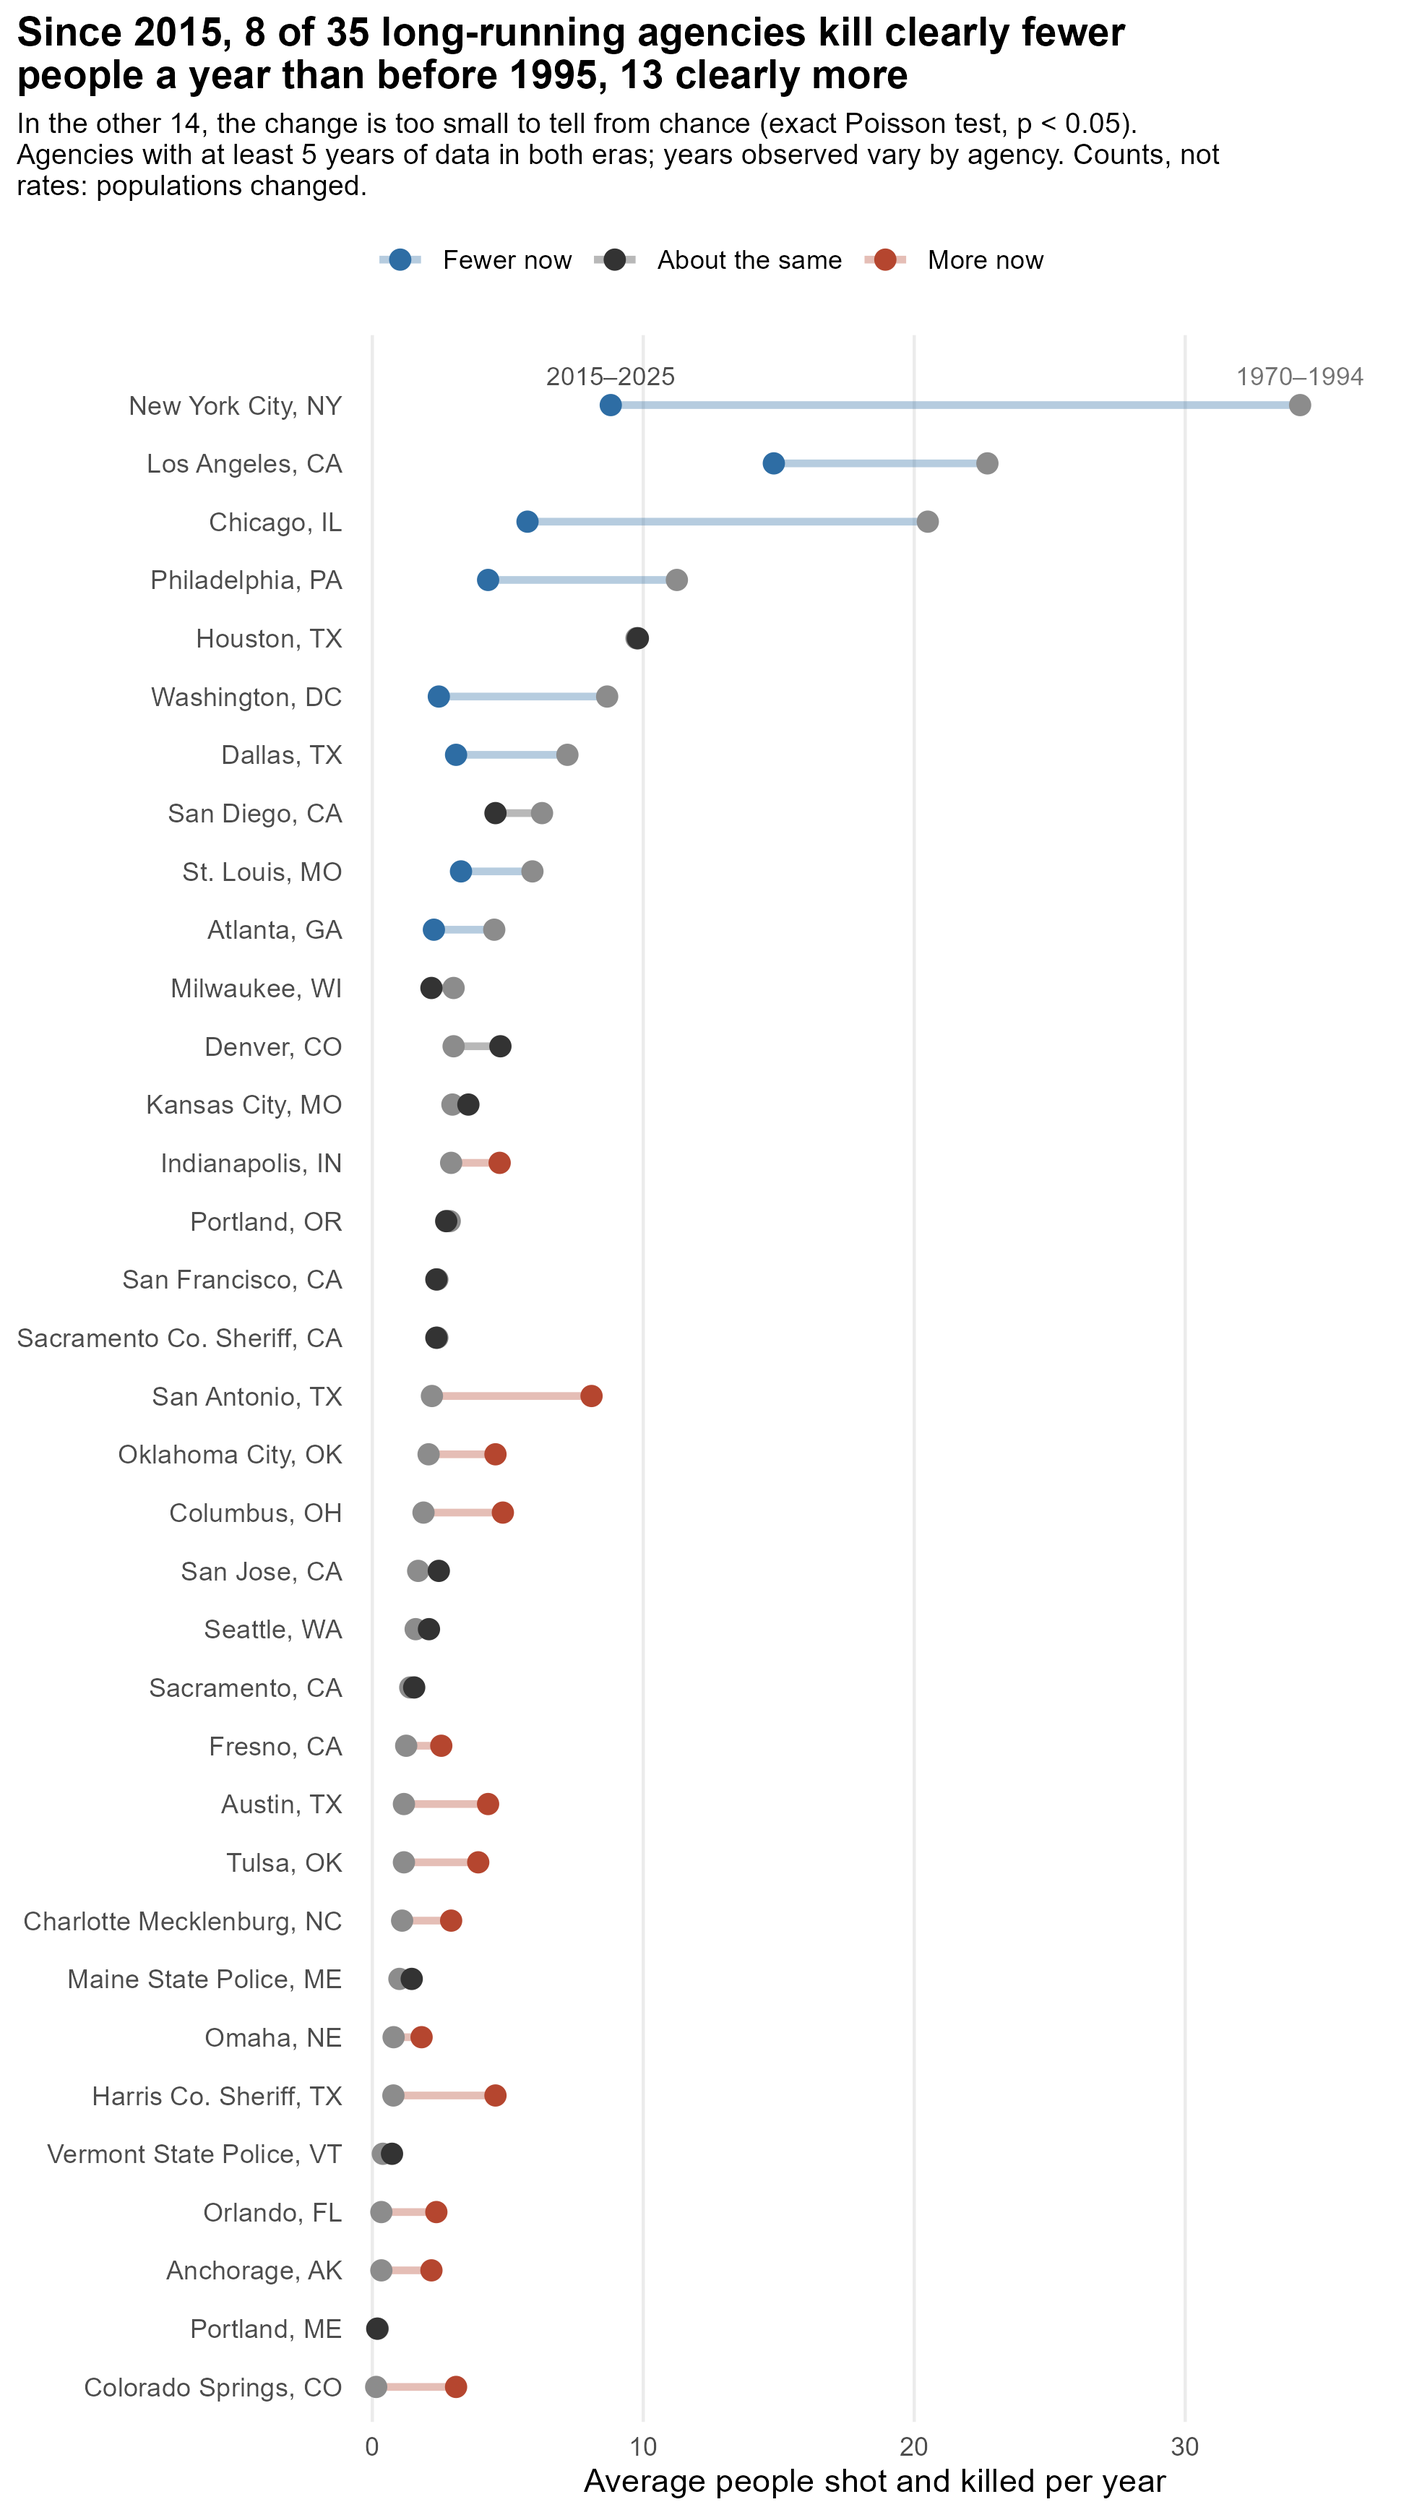
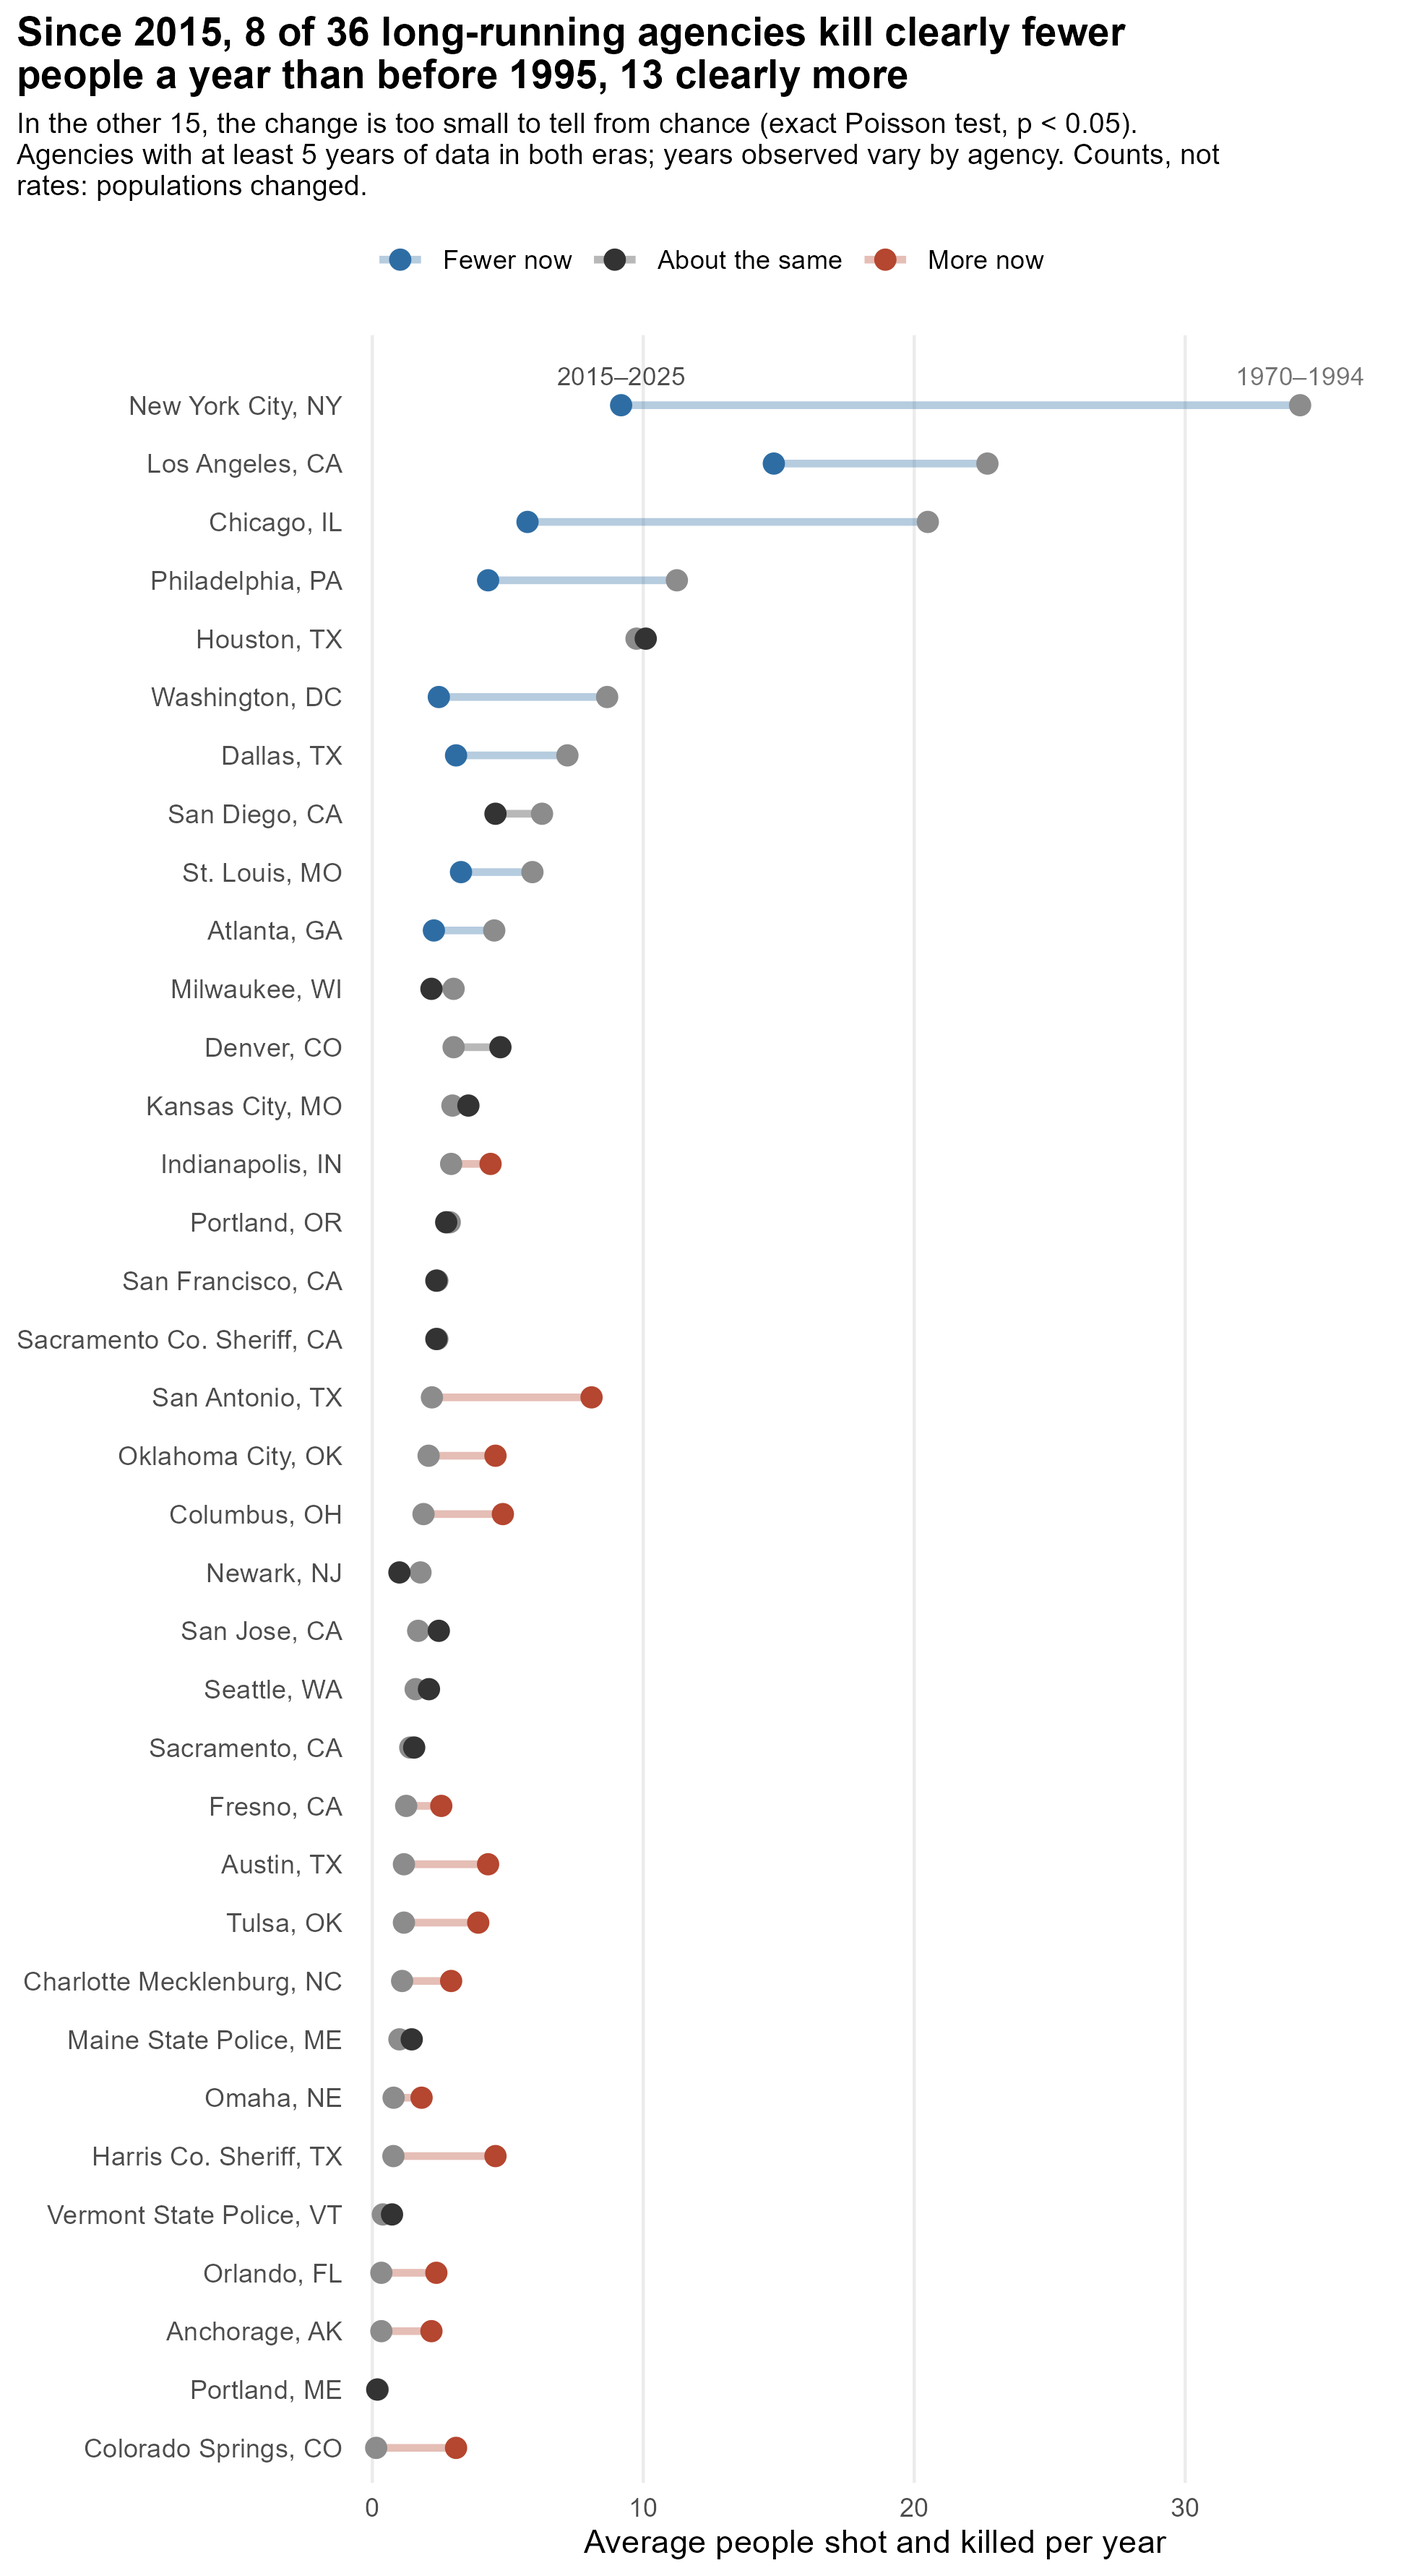
Fill 2015-24 with WaPo where there is no hand-built count; drop Cincinnati hand-built 2015+ (#38)
* Fill 2015-24 with WaPo where there is no hand-built count; drop Cincinnati hand-built 2015+

Most hand-built counts for 2015-22 were taken from WaPo in the first
place, so the trend figures now use WaPo for 2015-24 wherever an agency
has no usable hand-built count (missing, partial, or excluded), and MPV
on-duty for 2025 when a series reaches 2024. Cincinnati's hand-built
2015-19 counts mix in nonfatal shootings (2015: 27 vs WaPo 2), so its
exclusion now runs through 2022 and WaPo stands in from 2015.

Newark joins the long panel. Headline: 36 agencies, 0.72 (0.50-1.03);
8 fewer, 13 more, 15 about the same. README says where the 2015+
hand-built counts come from and that the WaPo agreement row is not an
independent check.

* Compare WaPo only against hand-built counts not taken from WaPo

Adds data/crosswalks/nix_nonwapo_sources.csv (Georgia AJC 2015-20,
Minnesota Star Tribune, Hawaii Civil Beat, and NYPD/SFPD/Houston/
Dallas/Springfield MO department data) and a "Hand-built (non-WaPo
sources) vs WaPo" agreement row: 247 agencies, 1,688 agency-years,
WaPo 4.2% fewer, 74% exact in years with a death. The README table
and the trend-figure caption now use this independent row.

Claude-Session: https://claude.ai/code/session_01HYdS39HijhNh5V2fQRzqZG

---------

diff --git a/README.md b/README.md
@@ -21,25 +21,25 @@ Are police killing more people now than in decades past? National data can't ans
 
 ![Within-agency trend in fatal police shootings](output/figures/trend_index.png)
 
-**How the trend is estimated.** The solid line comes from a Poisson model with agency fixed effects, fit to 413 of the 414 hand-built agencies. It compares each agency with itself, so agencies entering or leaving the data don't move the line. The hand-built series end in 2022. For agencies whose series run into 2021–22, 2023–24 are filled with WaPo counts and 2025 with MPV on-duty counts. WaPo is used where it exists because it tracks the hand-built counts more closely in the years just before the switch. Two series are left out because they mix in nonfatal shootings: Las Vegas (all years) and Cincinnati before 2015.
+**How the trend is estimated.** The solid line comes from a Poisson model with agency fixed effects, fit to all 414 hand-built agencies. It compares each agency with itself, so agencies entering or leaving the data don't move the line. Most hand-built counts for 2015 onward were taken from WaPo in the first place (see [Background](#background)), so WaPo fills 2015–24 wherever an agency has no hand-built count; the hand-built series end in 2022. MPV on-duty counts fill 2025 for series that reach 2024. Two hand-built series are left out because they mix in nonfatal shootings, Las Vegas and Cincinnati; WaPo stands in for both from 2015.
 
 **How far back it reaches.** Before 2000, the solid line rests on only 4–34 departments, mostly large cities. It describes big cities, not the country.
 
-**What it shows.** The headline compares one fixed set of agencies: the 35 with at least five years of data both before 1995 and since 2015, shown as the dashed line. In those agencies, fatal police shootings since 2015 run 28% below their 1970–1994 level (ratio 0.72, 95% CI 0.50–1.04).
+**What it shows.** The headline compares one fixed set of agencies: the 36 with at least five years of data both before 1995 and since 2015, shown as the dashed line. In those agencies, fatal police shootings since 2015 run 28% below their 1970–1994 level (ratio 0.72, 95% CI 0.50–1.03).
 
-![Then vs. now in 35 long-running agencies](output/figures/then_vs_now.png)
+![Then vs. now in 36 long-running agencies](output/figures/then_vs_now.png)
 
-**Then vs. now.** In the same 35 agencies, 8 kill clearly fewer people a year now than before 1995, 13 kill clearly more, and in 14 the change is too small to tell from chance (exact Poisson test of the two eras' yearly rates, p < .05). The drops are largest in New York, Chicago, and Los Angeles; the biggest increases are in San Antonio, Harris County, and Austin. These are raw counts, not rates per resident: some of these cities grew, while others, like St. Louis and Philadelphia, shrank.
+**Then vs. now.** In the same 36 agencies, 8 kill clearly fewer people a year now than before 1995, 13 kill clearly more, and in 15 the change is too small to tell from chance (exact Poisson test of the two eras' yearly rates, p < .05). The drops are largest in New York, Chicago, and Los Angeles; the biggest increases are in San Antonio, Harris County, and Austin. These are raw counts, not rates per resident: some of these cities grew, while others, like St. Louis and Philadelphia, shrank.
 
-**What the newspaper years do to the headline.** Twenty-four of the 35 agencies include years taken from newspapers, and 19 of them qualify only because of those years.
-- Dropping every newspaper year leaves 16 agencies and a ratio of 0.50 (95% CI 0.34–0.73). The 11 agencies with no newspaper years give 0.49 (0.26–0.90).
-- The 22 agencies rebuilt case by case come out at 1.41 (0.93–2.12) on their own. Chicago and Los Angeles are set aside here, because their newspaper years are department counts the papers printed and their size swamps the pool. So the rebuilt cities, many of them fast-growing Sun Belt departments, mostly kill more people now than before 1995.
+**What the newspaper years do to the headline.** Twenty-five of the 36 agencies include years taken from newspapers, and 20 of them qualify only because of those years.
+- Dropping every newspaper year leaves 16 agencies and a ratio of 0.50 (95% CI 0.34–0.73). The 11 agencies with no newspaper years give 0.49 (0.27–0.90).
+- The 23 agencies rebuilt case by case come out at 1.38 (0.93–2.05) on their own. Chicago and Los Angeles are set aside here, because their newspaper years are department counts the papers printed and their size swamps the pool. So the rebuilt cities, many of them fast-growing Sun Belt departments, mostly kill more people now than before 1995.
 
-The reconstructions are floors, because a search can miss deaths but can't invent them. As an upper bound, raising each newspaper year to SHR's count wherever SHR is higher (an overcorrection, since SHR also counts off-duty killings) moves the headline only to 0.70 (0.49–1.00), and the 22 rebuilt cities to 1.29 (0.88–1.89). Every run is in [`era_ratio_sensitivity.csv`](output/tables/era_ratio_sensitivity.csv).
+The reconstructions are floors, because a search can miss deaths but can't invent them. As an upper bound, raising each newspaper year to SHR's count wherever SHR is higher (an overcorrection, since SHR also counts off-duty killings) moves the headline only to 0.70 (0.49–0.99), and the 23 rebuilt cities to 1.26 (0.87–1.82). Every run is in [`era_ratio_sensitivity.csv`](output/tables/era_ratio_sensitivity.csv).
 
 ![Agencies with data before 2000](output/figures/coverage_tiles.png)
 
-**Reach.** The 40 agencies above carry the long-run record back before 2000; orange tiles are years taken from local newspapers. Overall, the hand-built agencies were involved in at least 32% of everyone shot and killed by police in WaPo's data, 2015–2024 ("at least" because deaths are matched through each WaPo agency's primary ORI, so some matches are missed).
+**Reach.** The 44 agencies above carry the long-run record back before 2000; orange tiles are years taken from local newspapers. Overall, the hand-built agencies were involved in at least 32% of everyone shot and killed by police in WaPo's data, 2015–2024 ("at least" because deaths are matched through each WaPo agency's primary ORI, so some matches are missed).
 
 Numbers in this section come from [`trend_summary.csv`](output/tables/trend_summary.csv), [`trend_index.csv`](output/tables/trend_index.csv), [`then_vs_now.csv`](output/tables/then_vs_now.csv), [`era_ratio_sensitivity.csv`](output/tables/era_ratio_sensitivity.csv), and [`coverage_share.csv`](output/tables/coverage_share.csv), all written by [`scripts/07_figures_trends.R`](scripts/07_figures_trends.R).
 
@@ -49,12 +49,12 @@ Where they overlap, the sources mostly agree. Each row compares a national sourc
 
 | Compared with the hand-built counts | Years | Agency-years | Its total deaths | Same count, in years either recorded a death |
 |---|---|---:|---|---:|
-| *Washington Post* | 2015–2022 | 2,641 | 4.0% fewer | 87% |
+| *Washington Post*, against hand-built counts not taken from WaPo | 2015–2022 | 1,688 | 4.2% fewer | 74% |
 | Fatal Encounters | 2000–2021 | 5,595 | 1.3% fewer | 69% |
 | Mapping Police Violence (on-duty) | 2013–2022 | 3,357 | 2.2% fewer | 71% |
 | FBI SHR | 1976–2022 | 3,450 | 26.7% fewer | 33% |
 
-Most agency-years have no deaths in either source, which makes any two sources look alike. The last column drops those years, so it's the tougher test.
+Most agency-years have no deaths in either source, which makes any two sources look alike. The last column drops those years, so it's the tougher test. Most hand-built counts for 2015–22 were copied from WaPo, so the WaPo row uses only the agency-years whose counts came from another documented source: the Georgia, Minnesota, and Hawaii newspaper databases and the NYPD, San Francisco, Houston, Dallas, and Springfield (MO) department data ([`nix_nonwapo_sources.csv`](data/crosswalks/nix_nonwapo_sources.csv)). Against all hand-built counts, which are mostly WaPo's own, WaPo matches in 87% of years with a death.
 - **FE runs about 9% above WaPo** in the hand-built agencies, 2015–2021.
 - **MPV's gap drifts:** 8–10% below the hand-built counts in 2013–15, and 3–9% above in 2020–22 ([`mpv_drift.csv`](output/tables/mpv_drift.csv)). That's why the trend figures prefer WaPo where it exists.
 - Agencies that WaPo lists under several ORIs (mostly state police) are left out.
@@ -109,11 +109,11 @@ It contains yearly counts of fatal and nonfatal police shootings for the followi
 | Indianapolis | 1970–91 |
 | Kansas City, MO | 1972–91 |
 
-I decided, for now at least, to focus on fatal shootings, since they're more reliably reported. From there, I gathered more recent data from the sources below. I started with the largest 100 or so agencies, but added others, regardless of size, as I came across them.
+I decided, for now at least, to focus on fatal shootings, since they're more reliably reported. From there, I gathered more recent data from the sources below. I started with the largest 100 or so agencies, but added others, regardless of size, as I came across them. For 2015–2022, most hand-built counts come from WaPo. The exceptions are agencies where I took the counts from another newspaper's database (as in Georgia, Minnesota, and Hawaii) or from the agency's own data (as for NYPD, San Francisco, Houston, and Dallas), listed below.
 
 | Source | Years included | Coverage |
 |---|:---:|---|
-| [Washington Post](https://github.com/washingtonpost/data-police-shootings) | 2015–2024 | Nationwide |
+| [Washington Post](https://github.com/washingtonpost/data-police-shootings) | 2015–2024 | Nationwide (most hand-built counts for 2015–22; fills 2015–24 in the trend figures where there is no hand-built count) |
 | [Fatal Encounters](https://fatalencounters.org/) | 2000–2021 | Nationwide (separate column; not used to fill gaps) |
 | [Mapping Police Violence](https://mappingpoliceviolence.org/) | 2013–present | Nationwide (separate column; fills 2025 in the trend figures) |
 | [Tampa Bay Times](https://projects.tampabay.com/projects/2017/investigations/florida-police-shootings/database/) | 2009–2014 | Florida |
